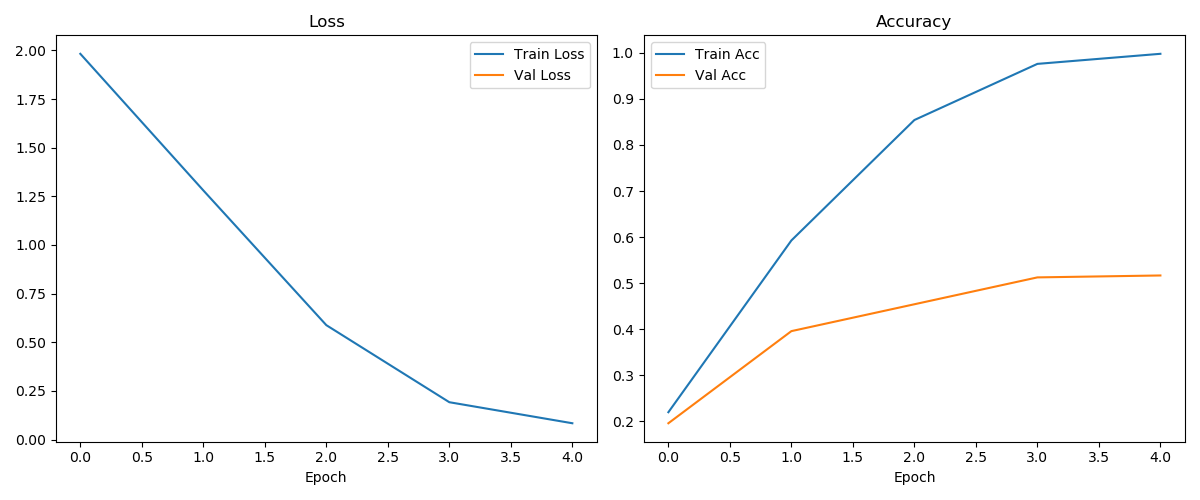
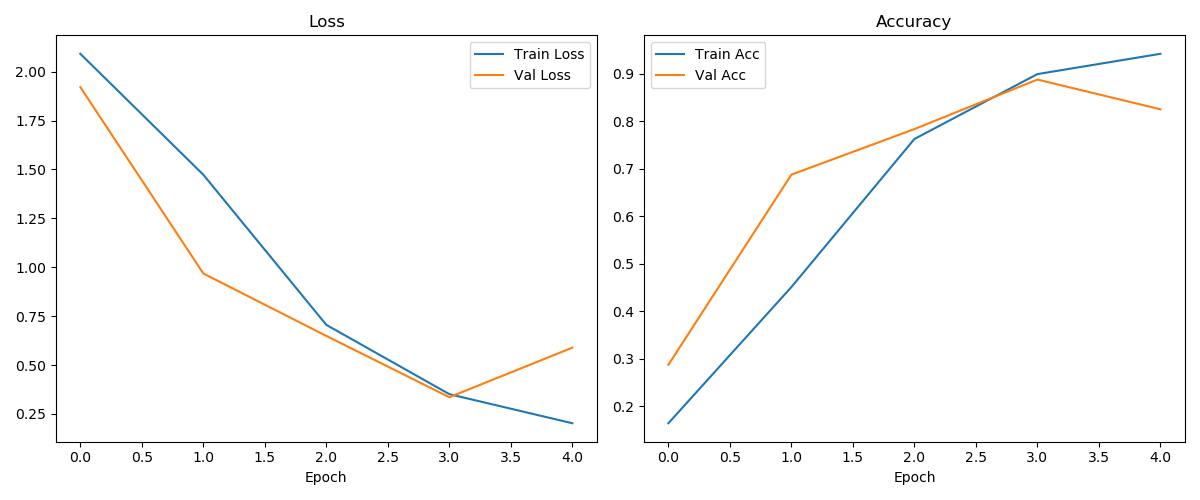
better results

diff --git a/main.py b/main.py
@@ -120,19 +120,28 @@ class MultiModalClassifier(nn.Module):
         # Replace the classification head with identity
         self.vit.heads.head = nn.Identity()
         
-        # 2. Audio branch: Use AST model for audio
+        # 2. Audio branch: Use AST model for audio without device mapping
         self.ast_model_name = "MIT/ast-finetuned-audioset-10-10-0.4593"
-        self.ast = ASTModel.from_pretrained(self.ast_model_name)
         
-        # Add feature extractor for proper preprocessing
-        self.feature_extractor = AutoFeatureExtractor.from_pretrained(self.ast_model_name)
-        
-        # Get the hidden size from the AST model
-        self.ast_hidden_size = self.ast.config.hidden_size  # Should be 768
+        # Load model with simplified settings - no half precision
+        try:
+            self.ast = ASTModel.from_pretrained(self.ast_model_name)
+            
+            # Add feature extractor for proper preprocessing
+            self.feature_extractor = AutoFeatureExtractor.from_pretrained(self.ast_model_name)
+            
+            # Get the hidden size from the AST model
+            self.ast_hidden_size = self.ast.config.hidden_size  # Should be 768
+        except Exception as e:
+            print(f"Error loading AST model: {e}")
+            # Fallback to a simpler model if AST fails to load
+            self.ast = None
+            self.ast_hidden_size = 768
+            print("Using fallback audio processing")
         
         # 3. Fusion: Concatenate features from both modalities
         self.fusion = nn.Sequential(
-            nn.Linear(768 + self.ast_hidden_size, 512),  # 768 from ViT + 768 from AST
+            nn.Linear(768 + self.ast_hidden_size, 512),
             nn.ReLU(),
             nn.Dropout(0.5),
             nn.Linear(512, num_classes)
@@ -147,35 +156,75 @@ class MultiModalClassifier(nn.Module):
         # Process image through ViT
         img_features = self.vit(x_img)  # CLS token embedding
         
-        # Process audio through AST
-        # AST expects input of shape (batch_size, sequence_length, num_mel_bins)
-        # Our input is (batch_size, channels, height, width) = (batch_size, 1, 128, 1024)
-        # Need to reshape to (batch_size, width, height)
+        # Process audio through AST with better error handling
         try:
             batch_size = x_audio.size(0)
             
             # Handle 5D tensor case
             if x_audio.dim() == 5:
                 x_audio = x_audio.squeeze(3)  # Remove the extra dimension
+            
+            # Check if tensor is valid
+            if x_audio.numel() == 0 or torch.isnan(x_audio).any() or torch.isinf(x_audio).any():
+                raise ValueError("Invalid audio tensor with zeros, NaNs or Infs")
+            
+            # Memory optimization: process in smaller chunks if batch is large
+            if batch_size > 2 and self.ast is not None:
+                # Process audio in smaller batches to save memory
+                audio_features_list = []
+                sub_batch_size = 2  # Process 2 samples at a time
                 
-            # Reshape from [batch_size, 1, 128, 1024] to [batch_size, 1024, 128]
-            # This matches AST's expected format: [batch_size, sequence_length, num_mel_bins]
-            x_audio = x_audio.squeeze(1).transpose(1, 2)
-            
-            # Pass through AST model
-            ast_outputs = self.ast(
-                input_values=x_audio,
-                output_hidden_states=True,
-                return_dict=True
-            )
-            
-            # Get pooled output (equivalent to CLS token representation)
-            audio_features = ast_outputs.pooler_output
+                for i in range(0, batch_size, sub_batch_size):
+                    # Get sub-batch
+                    end_idx = min(i + sub_batch_size, batch_size)
+                    x_audio_sub = x_audio[i:end_idx]
+                    
+                    # Reshape from [batch_size, 1, 128, 1024] to [batch_size, 1024, 128]
+                    # Keep the same float32 dtype
+                    x_audio_sub = x_audio_sub.squeeze(1).transpose(1, 2)
+                    
+                    # Clear CUDA cache to free up memory
+                    if torch.cuda.is_available():
+                        torch.cuda.empty_cache()
+                    
+                    # Process audio
+                    ast_outputs = self.ast(
+                        input_values=x_audio_sub,
+                        output_hidden_states=True,
+                        return_dict=True
+                    )
+                    sub_audio_features = ast_outputs.pooler_output
+                    
+                    audio_features_list.append(sub_audio_features)
+                
+                # Concatenate all sub-batches
+                audio_features = torch.cat(audio_features_list, dim=0)
+                
+            elif self.ast is not None:
+                # For small batches, process normally
+                x_audio = x_audio.squeeze(1).transpose(1, 2)
+                
+                # Process audio
+                ast_outputs = self.ast(
+                    input_values=x_audio,
+                    output_hidden_states=True,
+                    return_dict=True
+                )
+                audio_features = ast_outputs.pooler_output
+            else:
+                # Fallback if AST is not available
+                audio_features = torch.randn(batch_size, self.ast_hidden_size, device=x_img.device)
             
         except Exception as e:
             print(f"Error processing audio: {e}")
-            # Fallback - use random features
-            audio_features = torch.randn(x_img.size(0), self.ast_hidden_size, device=x_img.device) * 0.01
+            # Fallback - use random features with same dtype as image features
+            audio_features = torch.randn(x_img.size(0), self.ast_hidden_size, 
+                                        dtype=x_img.dtype, 
+                                        device=x_img.device)
+        
+        # Ensure consistent dtype before concatenation
+        if audio_features.dtype != img_features.dtype:
+            audio_features = audio_features.to(img_features.dtype)
         
         # Concatenate the features
         combined_features = torch.cat([img_features, audio_features], dim=1)
@@ -252,74 +301,68 @@ class RAVDESSMultiModalDataset(Dataset):
     def extract_audio_spectrogram(self, video_path):
         """Extract audio from video and convert to spectrogram for AST"""
         try:
-            # Create a temporary audio file with a unique name
-            temp_audio = f"temp_audio_{uuid.uuid4().hex}.wav"
+            # Create a unique temporary file for audio extraction
+            temp_audio_file = f"temp_audio_{uuid.uuid4()}.wav"
             
-            # Extract audio using ffmpeg
-            ffmpeg_cmd = f"ffmpeg -i \"{video_path}\" -q:a 0 -map a {temp_audio} -y"
-            result = subprocess.run(ffmpeg_cmd, shell=True, stderr=subprocess.PIPE)
+            # Extract audio from video using ffmpeg
+            subprocess.run([
+                'ffmpeg', '-y', '-i', video_path, '-acodec', 'pcm_s16le', 
+                '-ar', '16000', '-ac', '1', temp_audio_file
+            ], stderr=subprocess.DEVNULL, stdout=subprocess.DEVNULL)
             
-            # Check if the file was created successfully
-            if not os.path.exists(temp_audio):
-                print(f"Failed to extract audio from {video_path}")
-                print(f"ffmpeg error: {result.stderr.decode('utf-8')}")
-                # Return a dummy spectrogram with correct shape
-                return torch.zeros((1, 128, 1024))
+            # Load audio file
+            waveform, sample_rate = torchaudio.load(temp_audio_file)
             
-            # Load audio
-            waveform, sample_rate = torchaudio.load(temp_audio)
+            # Delete temporary file
+            os.remove(temp_audio_file)
             
-            # Convert to mono if stereo
-            if waveform.shape[0] > 1:
-                waveform = torch.mean(waveform, dim=0, keepdim=True)
-            
-            # Resample to 16kHz if needed (AST expects 16kHz)
+            # Resample if needed
             if sample_rate != 16000:
-                resampler = torchaudio.transforms.Resample(sample_rate, 16000)
-                waveform = resampler(waveform)
+                waveform = torchaudio.functional.resample(waveform, sample_rate, 16000)
                 sample_rate = 16000
             
-            # Generate log mel spectrogram
-            mel_spectrogram = torchaudio.transforms.MelSpectrogram(
+            # Handle empty or short waveforms
+            if waveform.numel() == 0 or waveform.shape[1] < sample_rate * 0.5:  # Less than 0.5 seconds
+                print(f"Warning: Very short or empty audio in {video_path}")
+                return torch.zeros((1, 128, 1024), dtype=torch.float32)
+            
+            # Convert to mel spectrogram
+            mel_spec = torchaudio.transforms.MelSpectrogram(
                 sample_rate=sample_rate,
-                n_fft=400,
-                hop_length=160,  # 10ms
+                n_fft=1024,
+                hop_length=512,
                 n_mels=128
             )(waveform)
             
             # Convert to decibels
-            log_mel_spectrogram = torchaudio.transforms.AmplitudeToDB()(mel_spectrogram)
+            mel_spec_db = torchaudio.transforms.AmplitudeToDB()(mel_spec)
             
-            # IMPORTANT: Normalize with appropriate mean and std as mentioned
-            # AST expects normalization with mean=0 and std=0.5
-            # Simple normalization to achieve this
-            log_mel_spectrogram = log_mel_spectrogram / (2 * log_mel_spectrogram.std())
+            # Normalize to match AST expectations
+            mel_spec_db_norm = (mel_spec_db - mel_spec_db.mean()) / (mel_spec_db.std() + 1e-10)
             
-            # Ensure consistent size
-            fixed_width = 1024  # Fixed number of time frames
-            if log_mel_spectrogram.shape[2] > fixed_width:
-                # Truncate if too long
-                log_mel_spectrogram = log_mel_spectrogram[:, :, :fixed_width]
-            elif log_mel_spectrogram.shape[2] < fixed_width:
-                # Pad with zeros if too short
-                padding = torch.zeros((1, 128, fixed_width - log_mel_spectrogram.shape[2]))
-                log_mel_spectrogram = torch.cat([log_mel_spectrogram, padding], dim=2)
+            # Ensure consistent shape for AST
+            # Target shape: [1, 128, 1024]
+            # Pad or trim if needed
+            target_length = 1024
+            current_length = mel_spec_db_norm.shape[2]
             
-            # Clean up
-            if os.path.exists(temp_audio):
-                os.remove(temp_audio)
+            if current_length < target_length:
+                # Pad with zeros
+                padding = target_length - current_length
+                log_mel_spectrogram = torch.nn.functional.pad(mel_spec_db_norm, (0, padding))
+            else:
+                # Trim to target length
+                log_mel_spectrogram = mel_spec_db_norm[:, :, :target_length]
             
-            # Before returning, ensure we have exactly the right shape [1, 128, 1024]
-            if log_mel_spectrogram.dim() != 3 or log_mel_spectrogram.shape[0] != 1 or log_mel_spectrogram.shape[1] != 128 or log_mel_spectrogram.shape[2] != 1024:
-                # Force reshape to correct dimensions
-                log_mel_spectrogram = log_mel_spectrogram.reshape(1, 128, 1024)
+            # Make sure we have the right dtype
+            log_mel_spectrogram = log_mel_spectrogram.to(torch.float32)
             
             return log_mel_spectrogram
             
         except Exception as e:
             print(f"Error processing audio for {video_path}: {str(e)}")
-            # Return a dummy spectrogram with correct shape
-            return torch.zeros((1, 128, 1024))
+            # Return a dummy spectrogram with correct shape and dtype
+            return torch.zeros((1, 128, 1024), dtype=torch.float32)
             
     def __getitem__(self, idx):
         row = self.dataframe.iloc[idx]
@@ -508,10 +551,13 @@ def main():
     train_dataset = RAVDESSMultiModalDataset(train_df)
     val_dataset = RAVDESSMultiModalDataset(val_df)
     
+    # Use smaller batch size to avoid memory issues
+    batch_size = 4  # Reduced from 8
+    
     # Create data loaders with the custom collate function
     train_loader = DataLoader(
         train_dataset, 
-        batch_size=8,  # Increased batch size
+        batch_size=batch_size,
         shuffle=True, 
         num_workers=2,
         collate_fn=custom_collate
@@ -519,7 +565,7 @@ def main():
     
     val_loader = DataLoader(
         val_dataset, 
-        batch_size=8,  # Increased batch size
+        batch_size=batch_size,
         shuffle=False, 
         num_workers=2,
         collate_fn=custom_collate
@@ -533,8 +579,8 @@ def main():
         model=model,
         train_loader=train_loader,
         val_loader=val_loader,
-        num_epochs=5,  # Reduced number of epochs since AST converges quickly
-        lr=3e-5,  # Lower learning rate for AST as recommended
+        num_epochs=5,
+        lr=3e-5,
         device=device
     )
     
